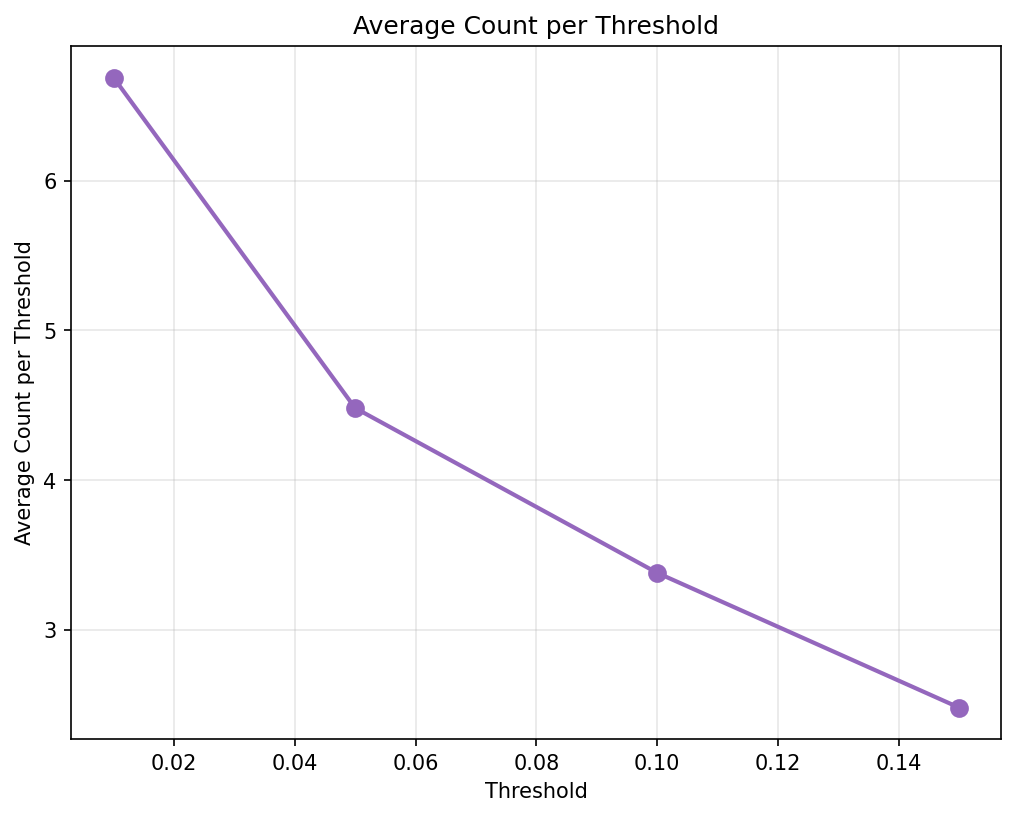
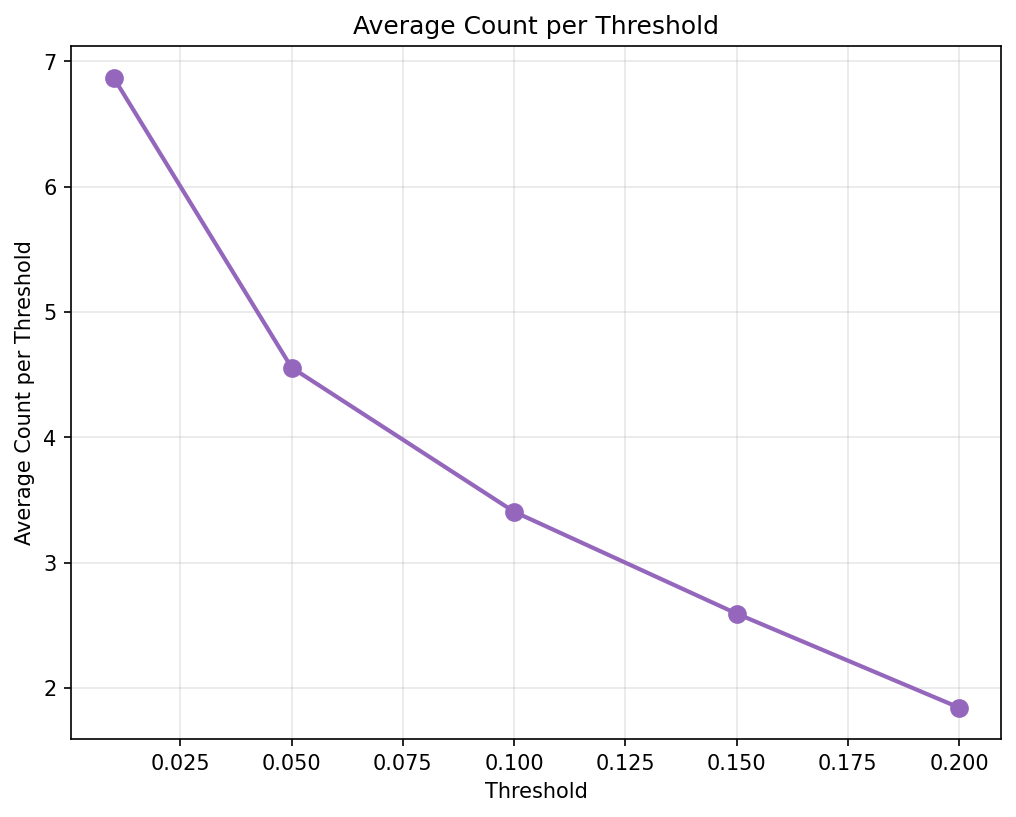
Update comparison statistics with layer normalization labels, update plots

diff --git a/compare_statistics.py b/compare_statistics.py
@@ -17,10 +17,12 @@ import matplotlib.pyplot as plt
 os.makedirs('plots_comparison', exist_ok=True)
 
 # Load data from both models
-data1 = np.load('plots/statistics_data.npz')  # Original model (N128_K32)
-data2 = np.load('plots_N256_K16_L2_H1_E32/statistics_data.npz')  # Load checkpoint model (N256_K16)
+data1 = np.load('plots/statistics_data.npz')  # Original model (dec28_tbyt)
+data2 = np.load('plots_N128_K16_L2_H1_E32/statistics_data.npz')  # Grid checkpoint (N128_K16_L2_H1_E32)
 
-thresholds = data1['thresholds']
+# Use each file's own thresholds
+thresholds1 = data1['thresholds']
+thresholds2 = data2['thresholds']
 
 # Get the counts (these are fractions of block_size, representing proportion of samples)
 iclogit_icscore_1 = data1['ave_iclogit_icscore_perthreshold']  # Wrong prediction, wrong attention
@@ -35,10 +37,10 @@ epsilon = 1e-10
 ratio1 = iclogit_icscore_1 / (clogit_icscore_1 + epsilon)
 ratio2 = iclogit_icscore_2 / (clogit_icscore_2 + epsilon)
 
-# Plot comparison
+# Plot comparison (each model uses its own thresholds)
 plt.figure(figsize=(10, 6))
-plt.plot(thresholds, ratio1, marker='o', linewidth=2, markersize=8, label='N128_K32 (original)', color='#1f77b4')
-plt.plot(thresholds, ratio2, marker='s', linewidth=2, markersize=8, label='N256_K16 (load_checkpoint)', color='#ff7f0e')
+plt.plot(thresholds1, ratio1, marker='o', linewidth=2, markersize=8, label='model without layer normalization', color='#1f77b4')
+plt.plot(thresholds2, ratio2, marker='s', linewidth=2, markersize=8, label='model with layer normalization', color='#ff7f0e')
 plt.xlabel('Threshold')
 plt.ylabel('Ratio: (Wrong Pred & Wrong Attn) / (Correct Pred & Wrong Attn)')
 plt.title('Ratio of ICLogit+ICScore to CLogit+ICScore Samples')
@@ -50,17 +52,17 @@ plt.close()
 
 # Print the values
 print("\n" + "="*60)
-print("Model 1 (N128_K32 - original):")
+print("Model 1 (model without layer normalization):")
 print("="*60)
-print(f"  Thresholds:              {thresholds}")
+print(f"  Thresholds:              {thresholds1}")
 print(f"  ICLogit+ICScore (wrong pred, wrong attn): {iclogit_icscore_1}")
 print(f"  CLogit+ICScore (correct pred, wrong attn): {clogit_icscore_1}")
 print(f"  Ratio (ICLogit_ICScore / CLogit_ICScore): {ratio1}")
 
 print("\n" + "="*60)
-print("Model 2 (N256_K16 - load_checkpoint):")
+print("Model 2 (model with layer normalization):")
 print("="*60)
-print(f"  Thresholds:              {thresholds}")
+print(f"  Thresholds:              {thresholds2}")
 print(f"  ICLogit+ICScore (wrong pred, wrong attn): {iclogit_icscore_2}")
 print(f"  CLogit+ICScore (correct pred, wrong attn): {clogit_icscore_2}")
 print(f"  Ratio (ICLogit_ICScore / CLogit_ICScore): {ratio2}")

diff --git a/intervention/test_intervention_batch_normalized.py b/intervention/test_intervention_batch_normalized.py
@@ -12,7 +12,7 @@ from checkpoint_utils import load_checkpoint
 from gpt_intervention_normalized import GPTInterventionNormalized
 
 # Load model using load_checkpoint
-checkpoint_path = os.path.join(os.path.dirname(__file__), '../Grid_training_without_duplicates/Final_N128_K16_L2_H1_E64_r2over1_npos1_mlp1_dup0_testK16_iters60000.pt')
+checkpoint_path = os.path.join(os.path.dirname(__file__), '../Grid_training_without_duplicates/Final_N128_K16_L2_H1_E32_r4over1_npos1_mlp1_dup0_testK16_iters60000.pt')
 device = 'cuda'
 model, config = load_checkpoint(checkpoint_path, device=device)
 model.eval()
@@ -56,7 +56,20 @@ for round in range(num_rounds):
             unsorted_ub=5, 
             unsorted_lb_num=1, 
             unsorted_ub_num=1, 
-            unsorted_intensity_inc=0.0, 
+            unsorted_intensity_inc=2.0, 
+            sorted_lb=0, 
+            sorted_num=0, 
+            sorted_intensity_inc=0.5
+        )
+
+        new_model, _ = intervention_model.intervent_attention(
+            attention_layer_num=1, 
+            location=location, 
+            unsorted_lb=5, 
+            unsorted_ub=5, 
+            unsorted_lb_num=1, 
+            unsorted_ub_num=1, 
+            unsorted_intensity_inc=2.0, 
             sorted_lb=0, 
             sorted_num=0, 
             sorted_intensity_inc=0.5
@@ -67,7 +80,7 @@ for round in range(num_rounds):
         num_tries += 1
         
         intervention_model.revert_attention(0)
-        intervention_model.revert_attention(1)
+        #intervention_model.revert_attention(1)
         
     except Exception as e:
         print(f"Exception in round {round}: {e}")

diff --git a/next_num_statistics_loadcheckpoint.py b/next_num_statistics_loadcheckpoint.py
@@ -144,7 +144,7 @@ def get_statistics(thresholds, threshold_index):
     return count_perlocation, count_perthreshold, (clogit_cscore_perlocation, clogit_icscore_perlocation, iclogit_cscore_perlocation, iclogit_icscore_perlocation), (clogit_cscore_perthreshold, clogit_icscore_perthreshold, iclogit_cscore_perthreshold, iclogit_icscore_perthreshold), (average_dist_perlocation, max_dist_perlocation), (average_dist_perthreshold, max_dist_perthreshold)
 
 
-thresholds = [0.01, 0.05, 0.1, 0.15]#, 0.2]
+thresholds = [0.01, 0.05, 0.1, 0.15, 0.2]
 threshold_index = 0
 num_tries = 10
 ave_clogit_cscore_perthreshold = np.zeros(len(thresholds))

diff --git a/intervention/test_intervention_batch.py b/intervention/test_intervention_batch.py
@@ -39,7 +39,7 @@ for round in range(num_rounds):
                                                 unsorted_ub=5, 
                                                 unsorted_lb_num=1, 
                                                 unsorted_ub_num=1, 
-                                                unsorted_intensity_inc=0.0, 
+                                                unsorted_intensity_inc=0.5, 
                                                 sorted_lb=0, 
                                                 sorted_num=0, 
                                                 sorted_intensity_inc=0.5)
